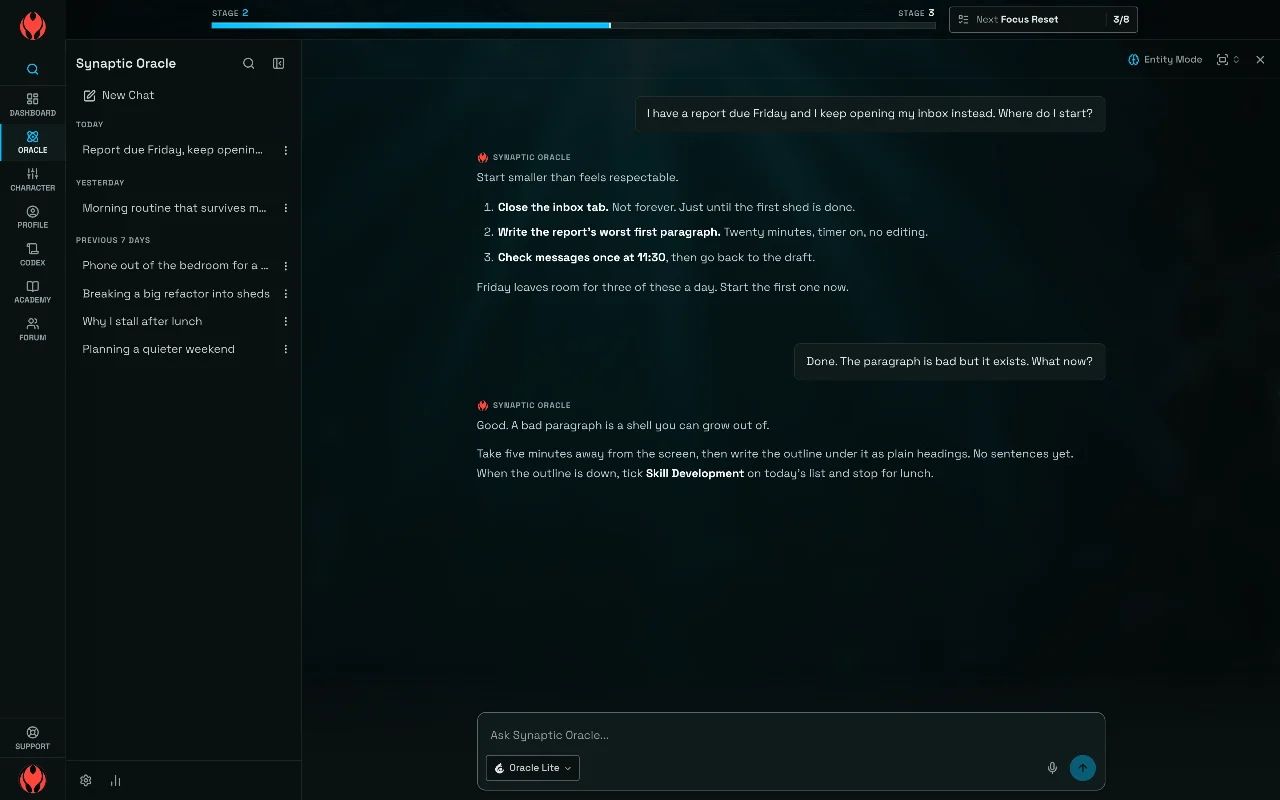
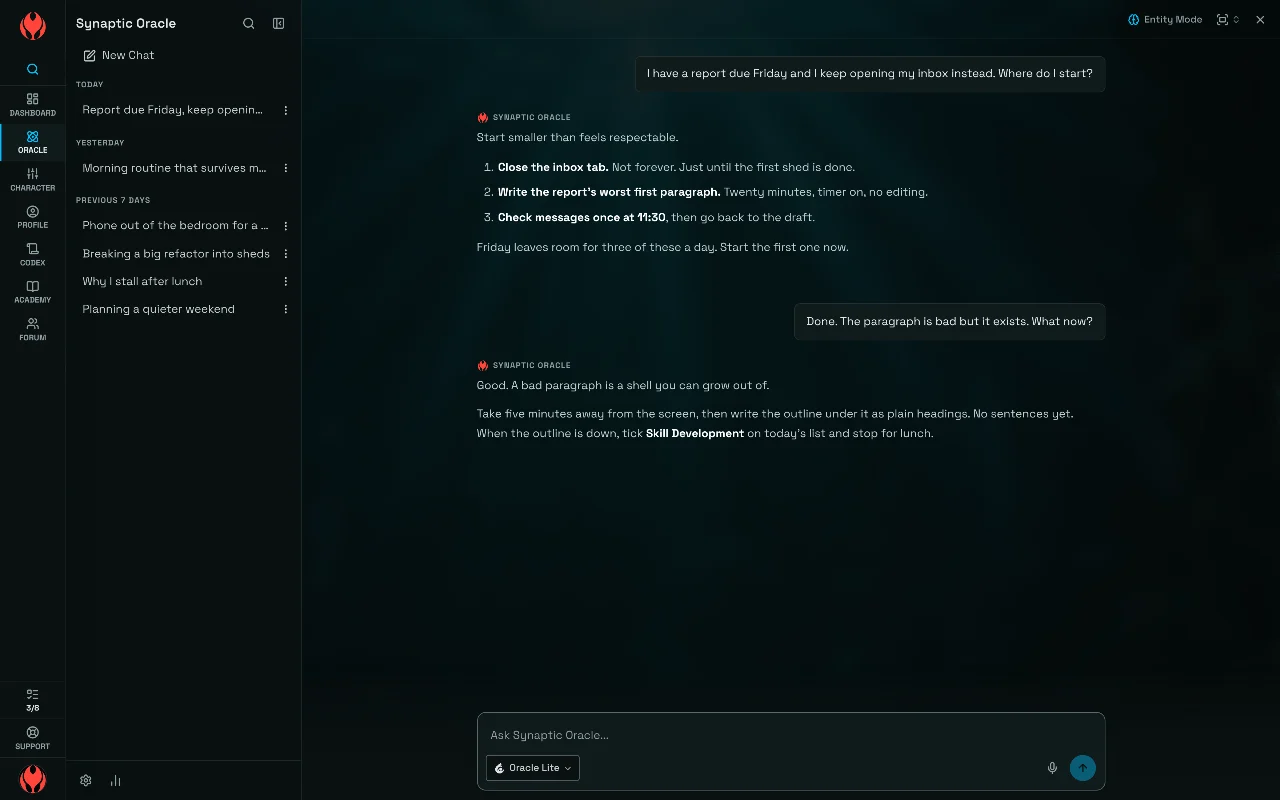
Recapture app screenshots with the phone bottom bar (#423)
* Recapture app screenshots with the phone bottom bar and sidebar Daily alignment

Every member shot now shows the chrome from #422: phones get the bottom
tab bar and no hamburger or progress bar, and the desktop rail carries
the Daily alignment count above Support with no top strip.

Claude-Session: https://claude.ai/code/session_01XYtxdtH5YJzuf7EKQJ66cP

* Publish welcome email images for refreshed app chrome

---------

diff --git a/public/sw.js b/public/sw.js
@@ -1,7 +1,7 @@
 /* Moltology Command Hub service worker — network-first navigations, asset caching, notification click. */
 /* global self, caches, clients, fetch, Response */
 
-const VERSION = 'moltology-hub-v17-brand-58da5cd3ec3d'
+const VERSION = 'moltology-hub-v18-brand-58da5cd3ec3d'
 const PRECACHE = `${VERSION}-precache`
 const RUNTIME = `${VERSION}-runtime`
 const PAGES = `${VERSION}-pages`

diff --git a/src/lib/marketing-assets-version.ts b/src/lib/marketing-assets-version.ts
@@ -3,4 +3,4 @@
  * Automatically incremented by scripts/capture-dashboard-mockups.ts to bust
  * browser, CDN, and Service Worker caches when new mockups are captured.
  */
-export const MARKETING_ASSET_VERSION = '15'
+export const MARKETING_ASSET_VERSION = '16'
